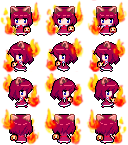
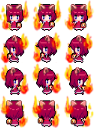
Fix anna image size

diff --git a/models.py b/models.py
@@ -23,7 +23,7 @@ class CharacterSprite(pygame.sprite.Sprite):
         self.gameRecord = gameRecord
         self.characterTypeData = characterTypeData
         fileNmae = 'images/character/%s' % (characterTypeData.imageName)
-        self.load(fileNmae, 28, 32, 4)
+        self.load(fileNmae, 32, 32, 4)
         self.position = (gameRecord.currentX, gameRecord.currentY)
         self.direction = gameRecord.currentDirection
 
